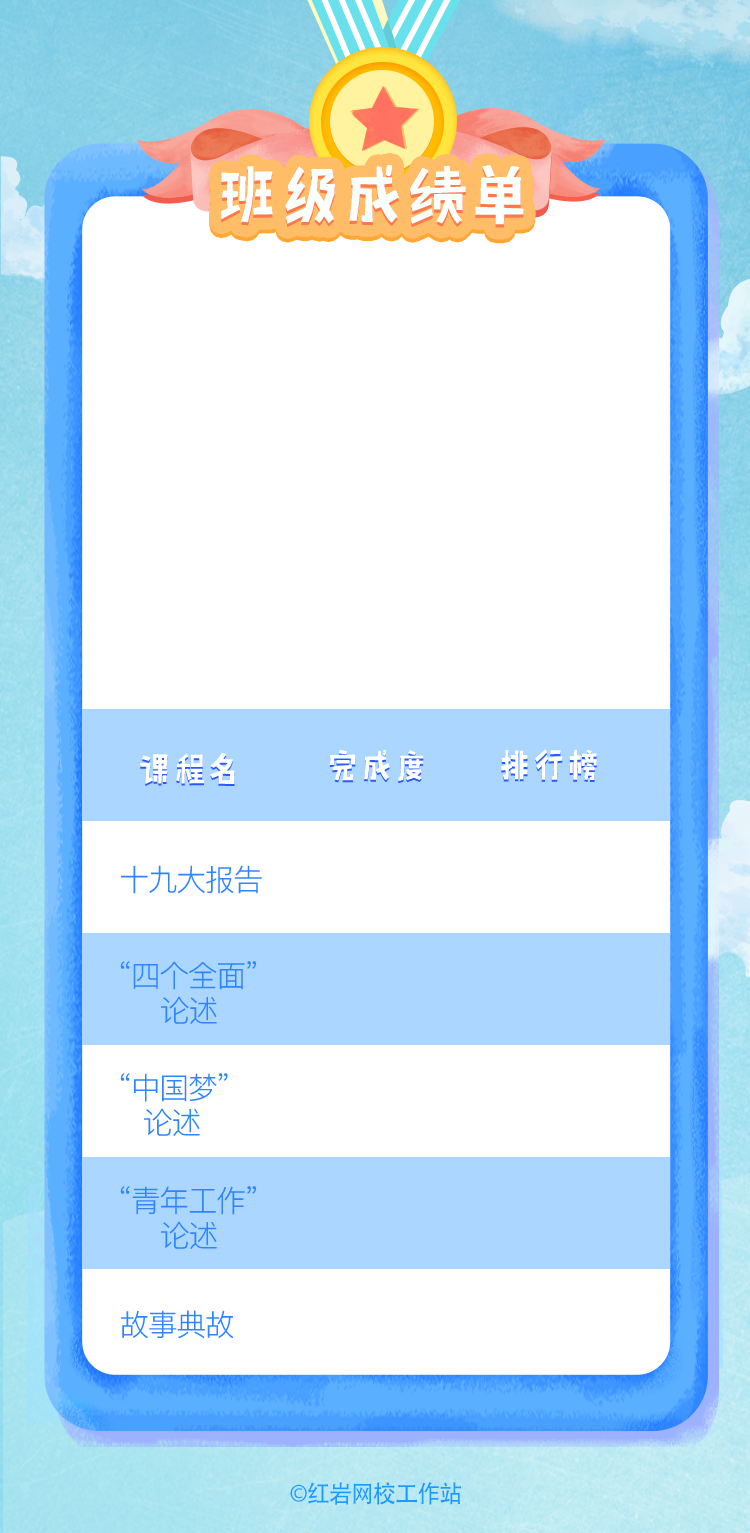
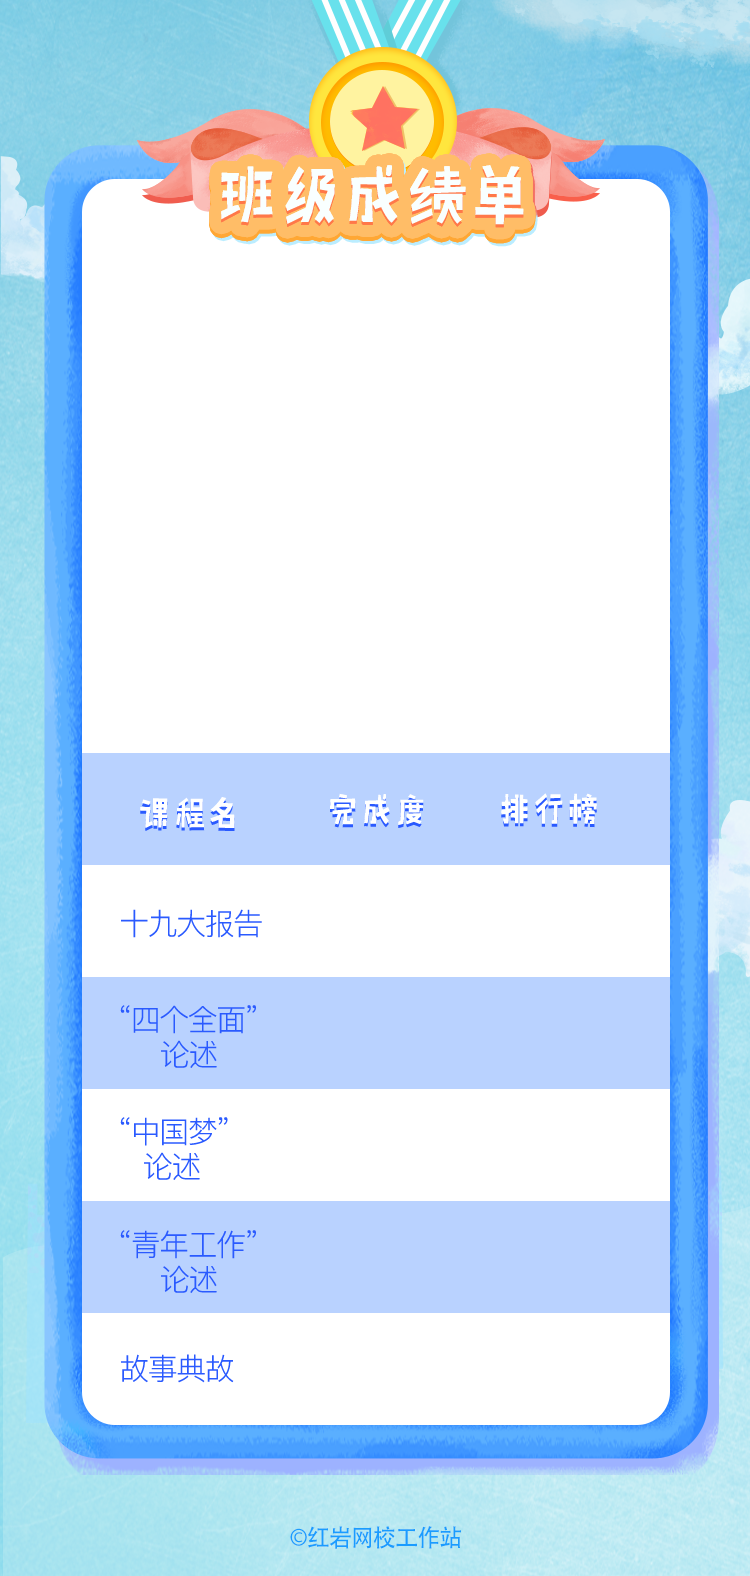
modify details

diff --git a/src/myAchievement/myAchievement.css b/src/myAchievement/myAchievement.css
@@ -1,6 +1,7 @@
 @font-face{
     font-family: 'hy';
-    src: url('../font/HYHeiLiZhiTiJ.ttf')  format('truetype');
+    src: url('../font/HYHeiLiZhiTiJ.ttf');
+    font-weight: lighter;
 }
 
 #myAchievement{
@@ -14,7 +15,7 @@
 .userHead{
     overflow: hidden;
     width: 78vw;
-    height: 53.4vw;
+    height: 55.4vw;
     margin: 0 auto;
     margin-top: 34.5vw;
 }
@@ -22,7 +23,7 @@
 .userHead .headImg{
     width: 15vw;
     height: 15vw;
-    margin: 0 auto;
+    margin: 1.4vw auto;
     margin-top: 2vw;
     background: pink;
     border-radius: 50%;
@@ -30,18 +31,21 @@
 
 .userName{
     text-align: center;
-    font-size: 4.5vw;
+    font-size: 3.8vw;
     color: rgb(85, 170, 255);
     overflow: hidden;
     margin-top: 1vw;
+    opacity: 0.7;
 }
 
 .personalRank, .GPA{
     text-align: center;
-    font-size: 3.62vw;
+    font-size: 3.82vw;
     color: rgb(255, 168, 55);
     font-family: 'hy';
-    margin: 1.7vw 0;
+    margin: 1.9vw 0;
+    opacity: 0.76;
+    font-weight: lighter;
 }
 
 .userHead span{
@@ -49,12 +53,12 @@
 }
 
 .myBtnWrapper{
-    margin-top: 3.6vw;
+    margin-top: 2.6vw;
 }
 
 .classBtn, .continue{
     display: inline-block;
-    width: 26vw;
+    width: 25.6vw;
     height: 12vw;
 }
 
@@ -114,6 +118,6 @@
 }
 
 .plates span:last-child{
-    text-align-last: left;
+    text-align-last: left !important;
     padding: 0 0 0 4vw;
 }

diff --git a/src/classAchievement/classAchievement.js b/src/classAchievement/classAchievement.js
@@ -17,13 +17,13 @@ class ClassHead extends Component {
     continueStudy() {
         Animation.quitPage();
         setTimeout(() => {
-            window.location.href = 'http://www.lordlycat:3000/choose';
+            window.location.href = 'choose';
         }, 600);
     }
     goToMy() {
         Animation.quitPage();
         setTimeout(() => {
-            window.location.href = 'http://www.lordlycat:3000/myAchievement';
+            window.location.href = 'myAchievement';
         }, 600);
     }
     render() {
@@ -32,8 +32,8 @@ class ClassHead extends Component {
                         <img src="" alt=""/>
                     </div>
                     <p className="userName">红小岩</p>
-                    <p className="personalRank">传媒艺术学院／13901602班</p>
-                    <p className="GPA">我的班级总成绩排名：第<span>12</span>名</p>
+                    <p className="personalRank">传媒艺术学院/13901602班</p>
+                    <p className="GPA">我的班级总成绩排名：第<span>1</span>名</p>
                     <p className="GPA">当前平均绩点：<span>A+</span></p>
                     <div className="classBtnWrapper">
                         <div className="continue" onClick={this.continueStudy}></div>

diff --git a/src/home/Home.js b/src/home/Home.js
@@ -24,7 +24,7 @@ class Achievement extends Component {
         Animation.quitPage();
         setTimeout(() => {
             document.title = "我的成绩单";
-            window.location.href = 'http:www.lordlycat:3000/myAchievement';
+            window.location.href = 'myAchievement';
         }, 600);
     }
 
@@ -32,7 +32,7 @@ class Achievement extends Component {
         Animation.quitPage();
         setTimeout(() => {
             document.title = "班级成绩单";
-            window.location.href = 'http:www.lordlycat:3000/classAchievement';
+            window.location.href = 'classAchievement';
         }, 600);
     }
 
@@ -67,6 +67,9 @@ class ChoosePlate extends Component {
     constructor(props) {
         super(props);
         this.chooseClick = this.chooseClick.bind(this);
+        if (!localStorage.getItem('plate')) {
+            localStorage.setItem('plate', 0);
+        }
     }
 
     chooseClick(event) {
@@ -80,7 +83,7 @@ class ChoosePlate extends Component {
         localStorage.setItem('plate', index);
         Animation.quitPage();
         setTimeout(() => {
-            window.location.href = 'http:www.lordlycat:3000/choose';
+            window.location.href = 'choose';
         }, 600);
     }
 

diff --git a/src/course/course.css b/src/course/course.css
@@ -19,8 +19,8 @@
 }
 
 .topic{
-    width: 40vw;
-    height: 10vw;
+    width: 48.5vw;
+    height: 11vw;
     margin: 0 auto;
     margin-top: 4.4vh;
     /*background: url(../img/sjdTitle.png) no-repeat;
@@ -33,14 +33,15 @@
 
 .order{
     width: 30vw;
-    height: 12vw;
+    height: 9vw;
     margin: 0 auto;
+    margin-top: 2vw;
     font-family: 'hy';
-    font-size: 6vw;
+    font-size: 7vw;
     color: white;
     text-align: center;
-    line-height: 12vw;
-    text-shadow: 0 0.16em 0.12em #f57b4f;
+    line-height: 9vw;
+    text-shadow: 0 0.14em 0.12em #f57b4f;
     /*margin-top: 4.4vh;*/
     /*background: url(../img/first.png) no-repeat;
     background-size: auto 100%;
@@ -68,17 +69,18 @@
     width: 80%;
     height: 8%;
     margin: 0 auto;
+    margin-top: 2.5vw;
     text-align: center;
-    font-size: 125%;
+    font-size: 3.8vw;
     color: rgb(255, 129, 53);
     word-break: break-all;
-    line-height: 6.3vw;
+    
 }
 
 .mainContent{
-    padding: 1vh 2vw;
+    padding:0 2vw 1vh 2vw;
     color: rgb(89, 162, 255);
-    font-size: 3.6vw;
+    font-size: 3.2vw;
     line-height: 6vw;
     text-indent:2em;
 }

diff --git a/src/choose/Choose.js b/src/choose/Choose.js
@@ -25,7 +25,7 @@ class CourseList extends Component {
         Animation.quitPage();
         setTimeout(() => {
             //document.title = "我的成绩单";
-            window.location.href = 'http://www.lordlycat:3000/course';
+            window.location.href = 'course';
         }, 600);
     }
 
@@ -53,14 +53,14 @@ class Buttons extends Component {
         Animation.quitPage();
         setTimeout(() => {
             document.title = "我的成绩单";
-            window.location.href = 'http://www.lordlycat:3000/myAchievement';
+            window.location.href = 'myAchievement';
         }, 600);
     }
 
     backClick() {
         Animation.quitPage();
         setTimeout(() => {
-            window.location.href = 'http://www.lordlycat:3000/index';
+            window.location.href = 'index';
         }, 600);
     }
 

diff --git a/src/myAchievement/myAchievement.js b/src/myAchievement/myAchievement.js
@@ -13,13 +13,13 @@ class UserHead extends Component {
     continueStudy() {
         Animation.quitPage();
         setTimeout(() => {
-            window.location.href = 'http://www.lordlycat:3000/choose';
+            window.location.href = 'choose';
         }, 600);
     }
     goToClass() {
         Animation.quitPage();
         setTimeout(() => {
-            window.location.href = 'http://www.lordlycat:3000/classAchievement';
+            window.location.href = 'classAchievement';
         }, 600);
     }
     render() {

diff --git a/src/home/home.css b/src/home/home.css
@@ -67,7 +67,7 @@
 
 .btnWrapper {
     overflow: hidden;
-    margin-top: 48.3vh;
+    margin-top: 45.3vh;
     height: 11vw;
 }
 
@@ -102,7 +102,7 @@
 .chooseWrapper {
     position: relative;
     width: 84vw;
-    height: 28vh;
+    height: 30vh;
     margin: 0 auto;
     margin-top: 3vh;
 }
@@ -110,7 +110,7 @@
 .plateBox {
     display: inline-block;
     width: 26.86vw;
-    height: 13vh;
+    height: 14.3vh;
     margin: 0.01vh 0.53vw;
 }
 

diff --git a/src/classAchievement/classAchievement.css b/src/classAchievement/classAchievement.css
@@ -1,17 +1,17 @@
 #classAchievement{
     overflow: hidden;
     width: 100%;
-    height: 204.46vw;
+    height: 209.9vw;
     background: url(../img/classBackground.png) no-repeat;
     background-size: 100% auto;
 }
 
 .classBtnWrapper{
-    margin-top: 3.3vw;
+    margin-top: 4.15vw;
 }
 
 #classAchievement .userHead{
-    height: 60.0vw;
+    height: 65.8vw;
 }
 
 .classBtnWrapper .classBtn{
